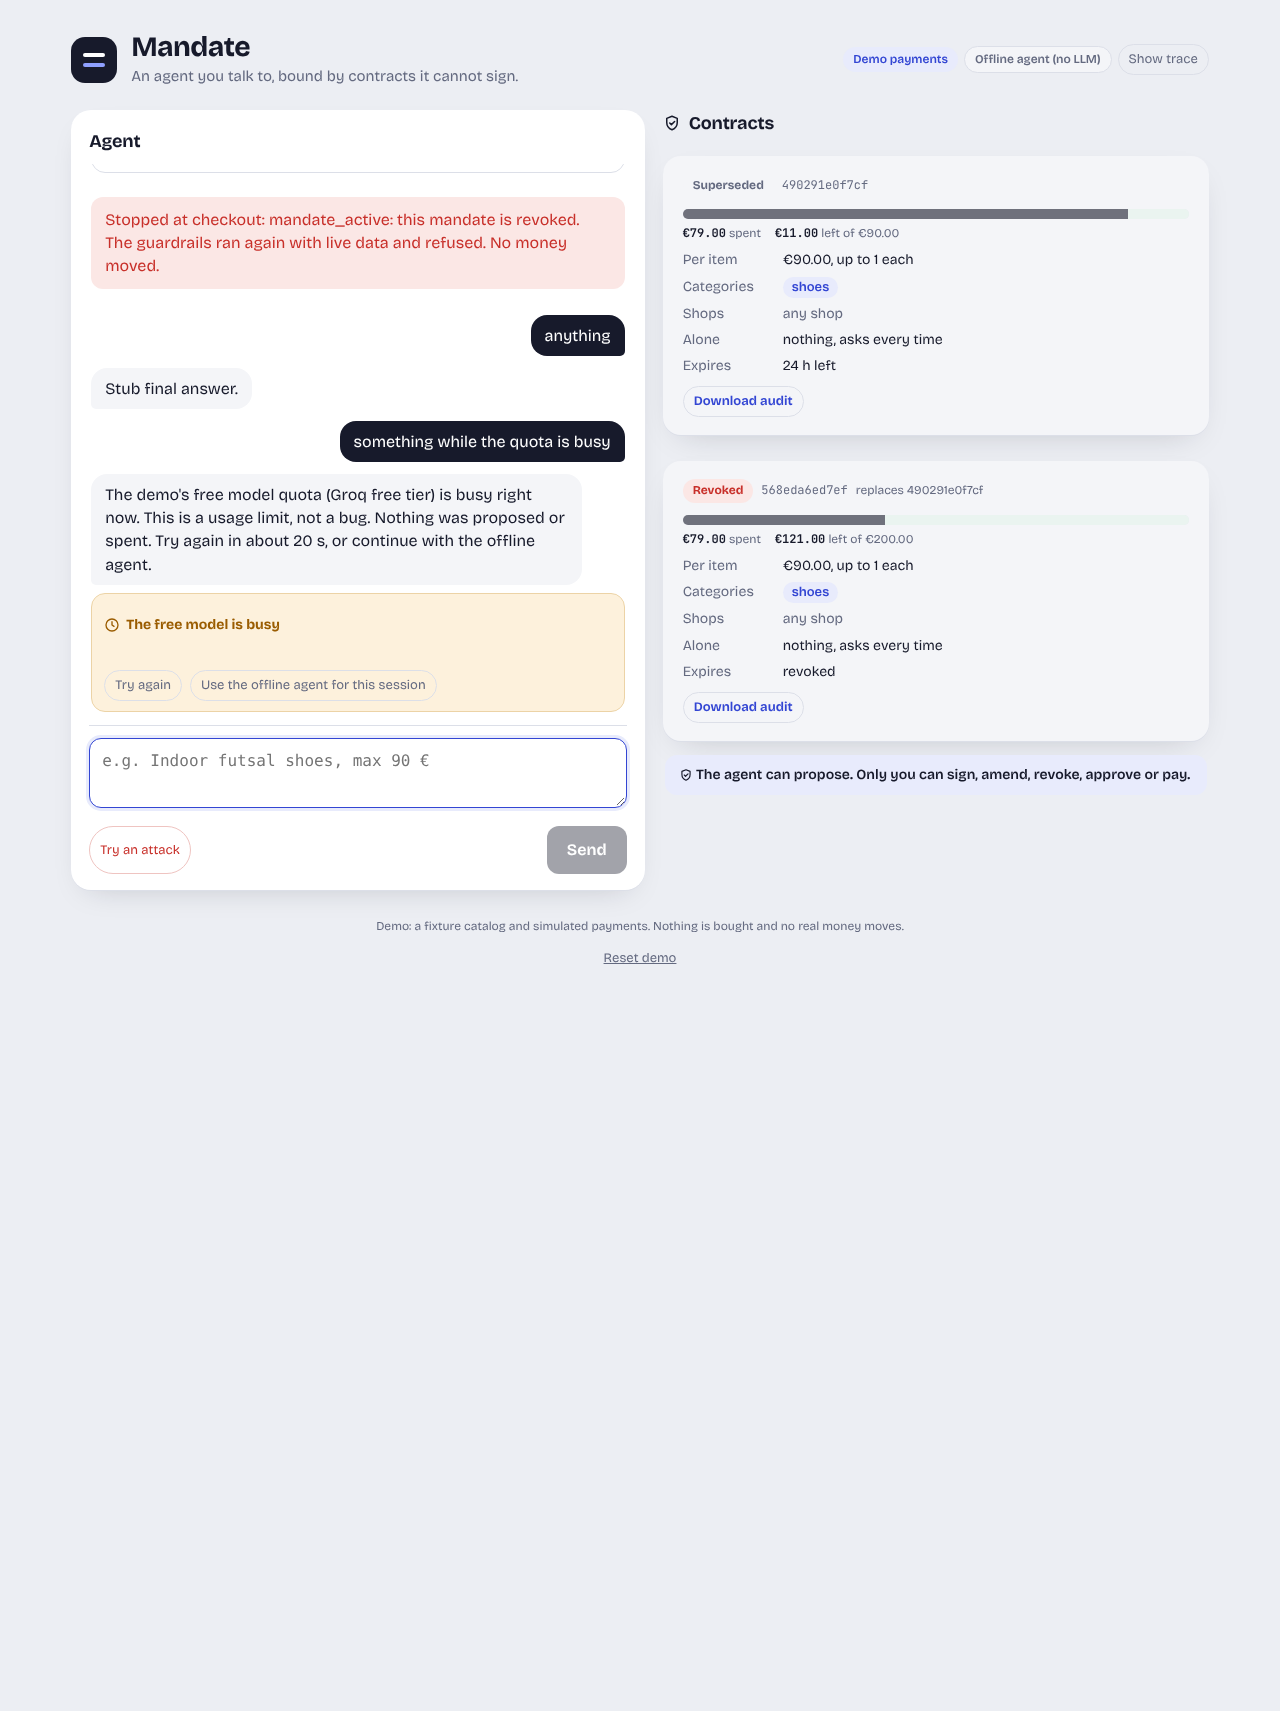
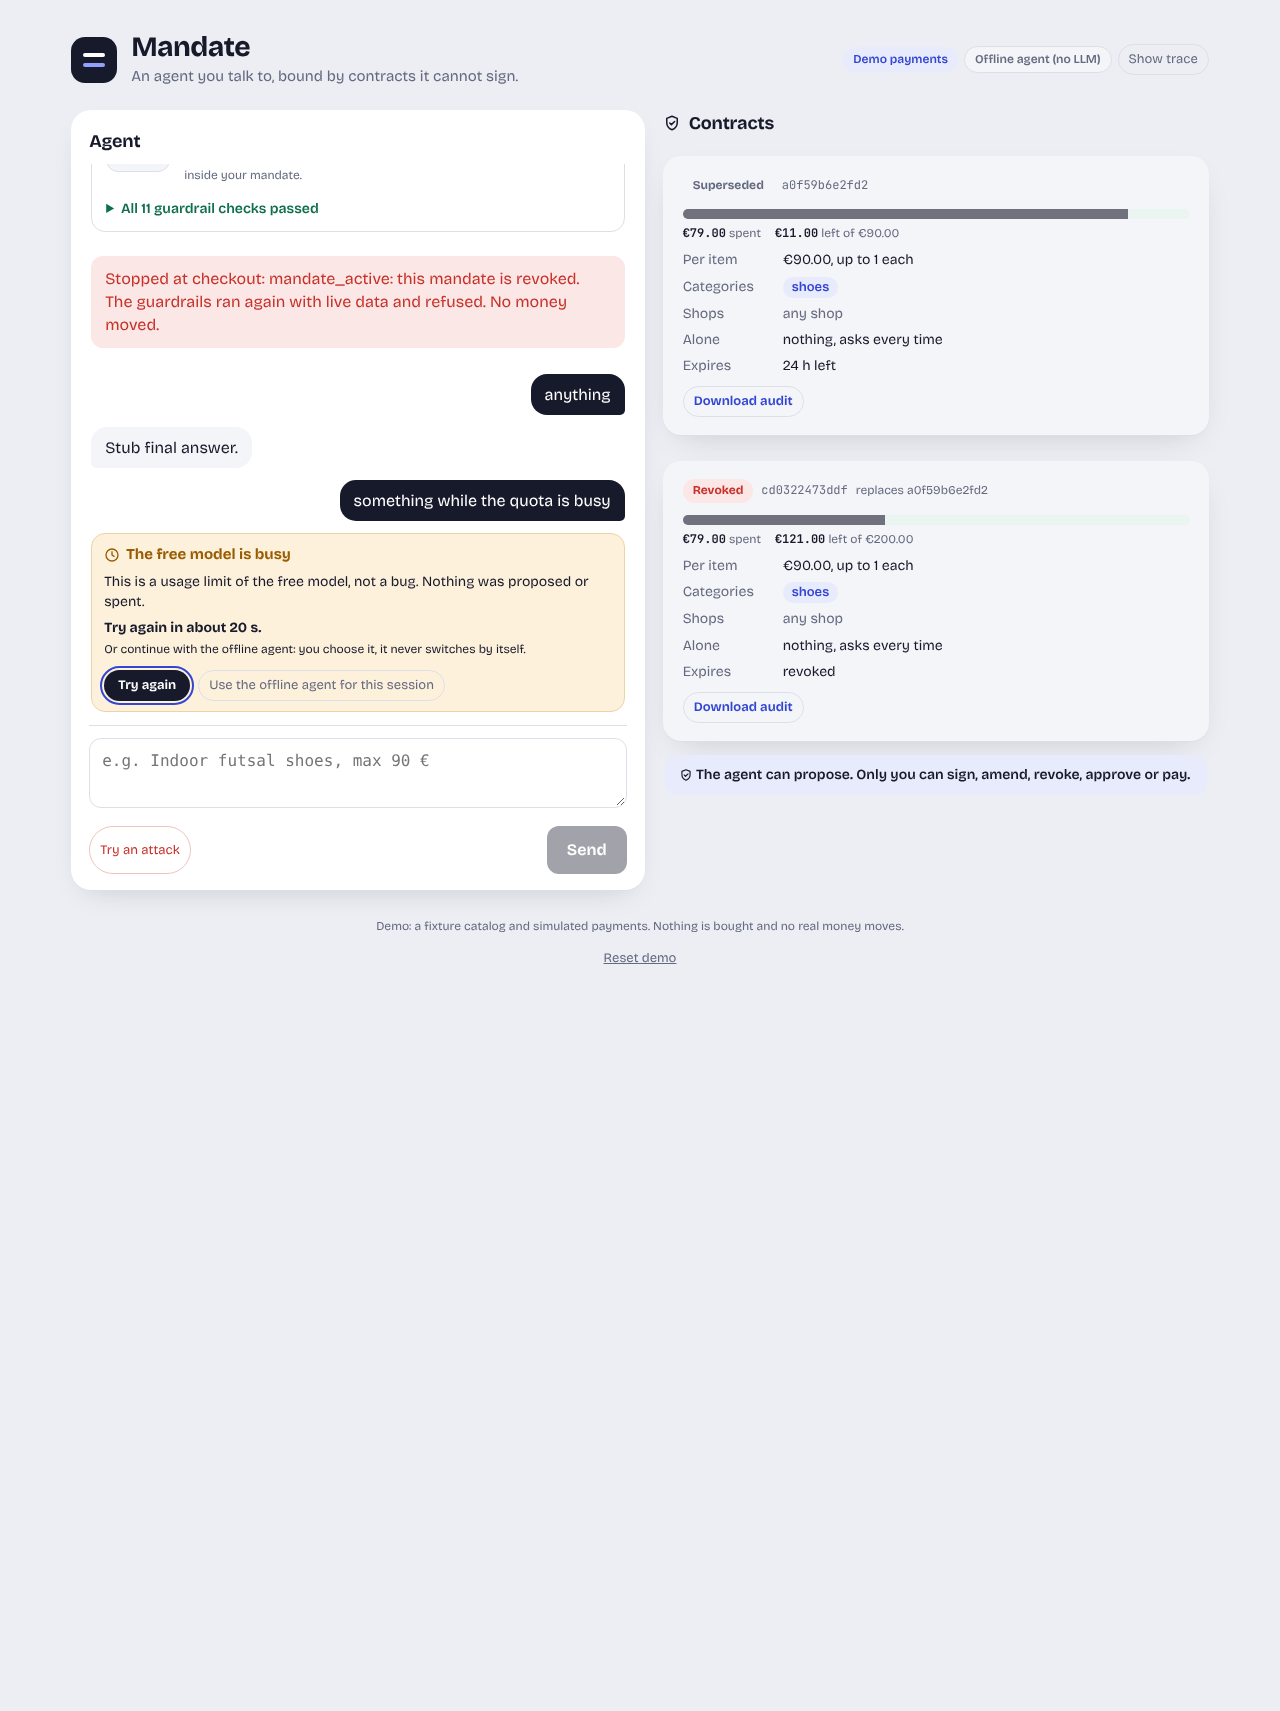
ui: the free-model limit card says everything itself, with a clear primary action (#52)
The card now carries its title, the explanation (a usage limit, not a
bug; nothing proposed or spent), the wait from retryAfterSec (seconds,
minutes or hours) and two actions: Try again (primary) and Use the
offline agent for this session (secondary). The duplicate chat bubble is
not rendered for this card. Tests for both variants, contrast pairs,
screenshots for minute and day.

Agent: ejecuta las tareas

Claude-Session: https://claude.ai/code/session_018jb2RDnJNg1tBGp2p84Z5E

Changed region(s): [[0.0625, 0.0929, 0.5, 0.4337]]

diff --git a/web/src/Chat.tsx b/web/src/Chat.tsx
@@ -1,6 +1,7 @@
 import { useEffect, useRef, useState } from "react";
 import { money, type Amendment, type BlockedView, type Card, type Config, type MandateView, type PendingDraft, type Proposal } from "./api";
 import { meter } from "./cards";
+import { limitCopy } from "./limit";
 import { Icon } from "./icons";
 import { CHECK_LABEL } from "./labels";
 import { ProposalCard } from "./ProposalCard";
@@ -64,16 +65,20 @@ function CardView({ card, ctx }: { card: Card; ctx: Ctx }) {
           <span className="verdict bad"><Icon name="cross" size={16} /> <b>{card.message}</b></span>
         </div>
       );
-    case "llm_limited":
+    case "llm_limited": {
+      const t = limitCopy(card);
       return (
         <div className="minicard limitcard" role="group" aria-label="Model quota">
-          <span className="verdict warn"><Icon name="clock" size={16} /> <b>{card.variant === "day" ? "Today's free model quota is used up" : "The free model is busy"}</b></span>
+          <p className="limit-title"><Icon name="clock" size={16} /> <b>{t.title}</b></p>
+          <p className="limit-why">{t.explanation}</p>
+          <p className="limit-wait"><b>{t.wait}</b> <span className="small">{t.offlineHint}</span></p>
           <div className="limit-actions">
-            <button type="button" className="ghost small" disabled={ctx.busy} onClick={ctx.onRetry}>Try again</button>
+            <button type="button" className="primary small" disabled={ctx.busy} onClick={ctx.onRetry}>Try again</button>
             <button type="button" className="ghost small" disabled={ctx.busy} onClick={ctx.onOffline}>Use the offline agent for this session</button>
           </div>
         </div>
       );
+    }
     case "spending":
       return (
         <div className="minicard spendingcard" role="group" aria-label="Spending">
@@ -126,7 +131,8 @@ export function Chat({ items, ctx, sending, streaming = "", onSend, onAttack }: 
         )}
         {items.map((m) => (
           <div key={m.id} className={`msg ${m.role}`}>
-            {m.text && <p className="bubble">{m.text}</p>}
+            {/* The limit card says it all itself: the server's sentence is not repeated as a bubble. */}
+            {m.text && !m.cards.some((c) => c.type === "llm_limited") && <p className="bubble">{m.text}</p>}
             {m.cards.map((c, i) => <CardView key={i} card={c} ctx={ctx} />)}
           </div>
         ))}

diff --git a/test/web-limit.test.ts b/test/web-limit.test.ts
@@ -1,0 +1,36 @@
+import { describe, expect, it } from "vitest";
+import { limitCopy } from "../web/src/limit.js";
+
+const card = (variant: "minute" | "day", retryAfterSec: number) => ({ type: "llm_limited" as const, variant, retryAfterSec, message: "server text, kept in the payload" });
+
+describe("the free-model limit card says everything itself", () => {
+  it("minute variant: a title, the explanation, and the wait in seconds", () => {
+    const c = limitCopy(card("minute", 20));
+    expect(c.title).toBe("The free model is busy");
+    expect(c.explanation).toMatch(/usage limit of the free model, not a bug/);
+    expect(c.explanation).toMatch(/Nothing was proposed or spent/);
+    expect(c.wait).toBe("Try again in about 20 s.");
+  });
+
+  it("day variant: a different title, and the wait in hours", () => {
+    const c = limitCopy(card("day", 7200));
+    expect(c.title).toBe("Today's free model quota is used up");
+    expect(c.explanation).toMatch(/usage limit of the free model, not a bug/);
+    expect(c.wait).toBe("It resets in about 2 h.");
+  });
+
+  it("the wait scales: seconds, minutes, hours", () => {
+    expect(limitCopy(card("minute", 3)).wait).toBe("Try again in about 3 s.");
+    expect(limitCopy(card("minute", 150)).wait).toBe("Try again in about 3 min.");
+    expect(limitCopy(card("day", 3 * 3600)).wait).toBe("It resets in about 3 h.");
+  });
+
+  it("never says 'about 0 s' for a tiny or missing wait", () => {
+    expect(limitCopy(card("minute", 0)).wait).toBe("Try again in about 1 s.");
+    expect(limitCopy(card("minute", Number.NaN)).wait).toMatch(/Try again in about \d+ s\./);
+  });
+
+  it("the offline agent is offered as a choice, never as a fallback", () => {
+    expect(limitCopy(card("minute", 20)).offlineHint).toMatch(/offline agent/i);
+  });
+});

diff --git a/web/src/limit.ts b/web/src/limit.ts
@@ -1,0 +1,25 @@
+import type { Card } from "./api";
+
+type Limited = Extract<Card, { type: "llm_limited" }>;
+
+/** 3 -> "about 3 s", 150 -> "about 3 min", 7200 -> "about 2 h" (the same wording the server uses in `message`). */
+function aboutHowLong(sec: number): string {
+  const s = Number.isFinite(sec) ? sec : 20;
+  if (s < 120) return `about ${Math.max(1, Math.round(s))} s`;
+  if (s < 2 * 3600) return `about ${Math.round(s / 60)} min`;
+  return `about ${Math.round(s / 3600)} h`;
+}
+
+/**
+ * What the limit card says. It carries the whole message itself (title, why, how long, what to do), so the chat does not also show the
+ * server's sentence as a bubble. `message` stays in the payload for the API and the trace; this is the same fact, laid out.
+ */
+export function limitCopy(card: Limited) {
+  const day = card.variant === "day";
+  return {
+    title: day ? "Today's free model quota is used up" : "The free model is busy",
+    explanation: "This is a usage limit of the free model, not a bug. Nothing was proposed or spent.",
+    wait: day ? `It resets in ${aboutHowLong(card.retryAfterSec)}.` : `Try again in ${aboutHowLong(card.retryAfterSec)}.`,
+    offlineHint: "Or continue with the offline agent: you choose it, it never switches by itself.",
+  };
+}

diff --git a/web/src/agent.css b/web/src/agent.css
@@ -99,9 +99,13 @@
 .agentbadge.model { background: var(--good-soft); color: var(--good); }
 .agentbadge.offline { background: var(--paper); color: var(--muted); border: 1px solid var(--line); }
 .limitcard { border-color: #ecd3a6; background: var(--warn-soft); }
+.limitcard { gap: 6px; }
 .limitcard p { margin: 0; color: var(--ink); }
-.verdict.warn { color: var(--warn); display: inline-flex; gap: 6px; align-items: center; }
-.limit-actions { display: flex; flex-wrap: wrap; gap: 8px; }
+.limit-why { font-size: 14px; }
+.limit-wait { font-size: 14px; }
+.limit-wait .small { display: block; color: var(--ink); font-weight: 400; margin-top: 2px; }
+.limitcard .limit-title { color: var(--warn); display: flex; gap: 6px; align-items: center; font-size: 15px; }
+.limit-actions { display: flex; flex-wrap: wrap; gap: 8px; margin-top: 6px; }
 .tour { background: var(--card); border: 1px solid var(--line); border-radius: 16px; padding: 10px 14px; margin-top: 16px; }
 .tour-head { display: flex; justify-content: space-between; align-items: center; gap: 10px; }
 .tour-toggle { background: none; border: 0; padding: 4px 0; cursor: pointer; display: inline-flex; gap: 10px; align-items: baseline; text-align: left; }

diff --git a/test/ui-contrast.test.ts b/test/ui-contrast.test.ts
@@ -23,6 +23,7 @@ describe("UI contrast (WCAG AA 1.4.3): every text colour the design uses, on the
     ["ink", "card", "body text on a card"], ["ink", "paper", "body text on a quiet surface"], ["ink", "bg", "text on the page"],
     ["muted", "card", "secondary text on a card"], ["muted", "paper", "secondary text on a quiet surface (past contracts, chips)"], ["muted", "bg", "secondary text on the page"],
     ["brand", "brand-soft", "badge"], ["brand", "card", "link"], ["brand-ink", "brand", "primary button"],
+    ["ink", "warn-soft", "explanation on the limit card"], ["muted", "warn-soft", "secondary button on the limit card"],
     ["good", "good-soft", "approved, paid, active"], ["warn", "warn-soft", "limit card, draft"], ["bad", "bad-soft", "blocked, revoked"],
   ];
   for (const [fg, bg, where] of pairs) {

diff --git a/README.md b/README.md
@@ -28,7 +28,7 @@ npm run eval:mutants            # switch each of the 11 guardrails off in turn: 
 
 **Use your own model key:** copy `.env.example` to `.env`, set the key of the provider you use (`GOOGLE_GENERATIVE_AI_API_KEY`, `OPENAI_API_KEY`, `ANTHROPIC_API_KEY` or `GROQ_API_KEY`, the last has a free tier) and run `npm run doctor` to see what will answer. The provider is detected from the key; nothing else is required. Keys stay on the server (a public page never asks for one). Full reference: [docs/CONFIGURATION.md](docs/CONFIGURATION.md).
 
-**How it is checked:** `npm test` (409 tests, mocks only), `npm run eval` (spend safety 57/57 with an oracle that never calls the guardrail code) and `npm run eval:mutants` (11 of 11 guardrails caught when disabled, see [docs/MUTATION.md](docs/MUTATION.md)). `npm run eval:injection-variants` (78 obfuscated injections: the regex detector flags 19, money outside the mandate 0/78, see [docs/EVIDENCE.md](docs/EVIDENCE.md)). None of these call a real LLM; that is the opt-in `npm run eval:real`. Open questions: [docs/wayfinder/MAP.md](docs/wayfinder/MAP.md).
+**How it is checked:** `npm test` (416 tests, mocks only), `npm run eval` (spend safety 57/57 with an oracle that never calls the guardrail code) and `npm run eval:mutants` (11 of 11 guardrails caught when disabled, see [docs/MUTATION.md](docs/MUTATION.md)). `npm run eval:injection-variants` (78 obfuscated injections: the regex detector flags 19, money outside the mandate 0/78, see [docs/EVIDENCE.md](docs/EVIDENCE.md)). None of these call a real LLM; that is the opt-in `npm run eval:real`. Open questions: [docs/wayfinder/MAP.md](docs/wayfinder/MAP.md).
 
 ![Chat on the left, contracts on the right: the agent drafted a contract, the person signed it and a purchase is paid](docs/screenshots/desktop-5-paid.png)
 

diff --git a/docs/UI-AUDIT.md b/docs/UI-AUDIT.md
@@ -29,6 +29,10 @@ An accessibility and polish audit of the web UI (chat plus contracts panel) afte
 | The disabled "Send" button is low-contrast grey | Disabled controls are exempt from the contrast rule, and the grey is the standard signal that it is not available yet |
 | Visual identity (tokens, type, cards, badges) | Unchanged: nothing in the audit forced a change |
 
+## Follow-up: the limit card (2026-11-21)
+
+The "free model is busy" card used to show only a title and two faint buttons, with the explanation in a separate grey bubble above (the message was split in two places and `retryAfterSec` was not shown). It now carries its own title, the explanation (a usage limit of the free model, not a bug; nothing proposed or spent), the wait computed from `retryAfterSec` ("Try again in about 20 s" or "It resets in about 2 h"), a primary "Try again" button and a secondary "Use the offline agent for this session" button; the duplicate bubble is not rendered for this card. Both variants are checked by `test/web-limit.test.ts` (copy and wait scaling) and by `npm run screenshots` (`*-11-limit.png`, `desktop-12-limit-day.png`), axe reports 0 violations on both variants at 1280 px and 380 px, and `test/ui-contrast.test.ts` now also covers the ink and muted text on the card's warm surface.
+
 ## Before and after
 
 The only visible change is the look of past contracts in the Contracts panel. Screenshots (the files under `docs/screenshots/`, regenerated by `npm run screenshots`): `desktop-8-after-amendment.png`, `desktop-9-revoked.png`, `desktop-10-refused.png`, `desktop-11-limit.png`, `mobile-8-after-amendment.png`, `mobile-9-revoked.png`. In the pull request, the "before" versions are the same paths on `main` before the merge.

diff --git a/docs/EVIDENCE.md b/docs/EVIDENCE.md
@@ -6,7 +6,7 @@ What Mandate shows, how to reproduce each figure, and what it does not show. Val
 
 | Figure | Value | Reproduce |
 | --- | --- | --- |
-| Tests (mocks only) | 409 in 36 files | `npm test` |
+| Tests (mocks only) | 416 in 37 files | `npm test` |
 | Scenarios, split guardrail / injection / task / agent | 57 (28 / 7 / 12 / 10) | `npm run eval` |
 | Spend safety (no capture outside the mandate, judged by an oracle that never calls guardrail code) | 57/57 | `npm run eval` |
 | Guardrails caught when switched off, one at a time | 11/11 mutants | `npm run eval:mutants` |
